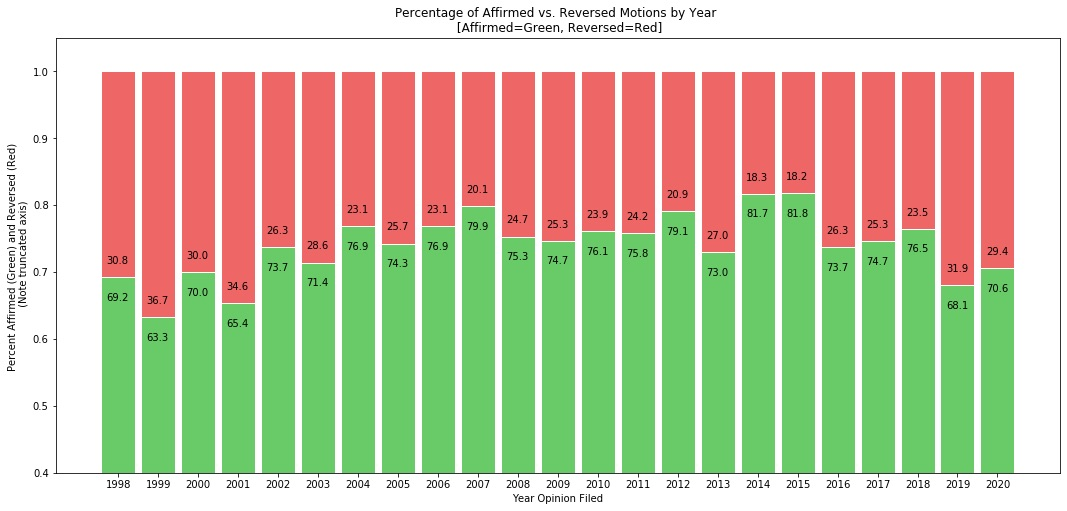
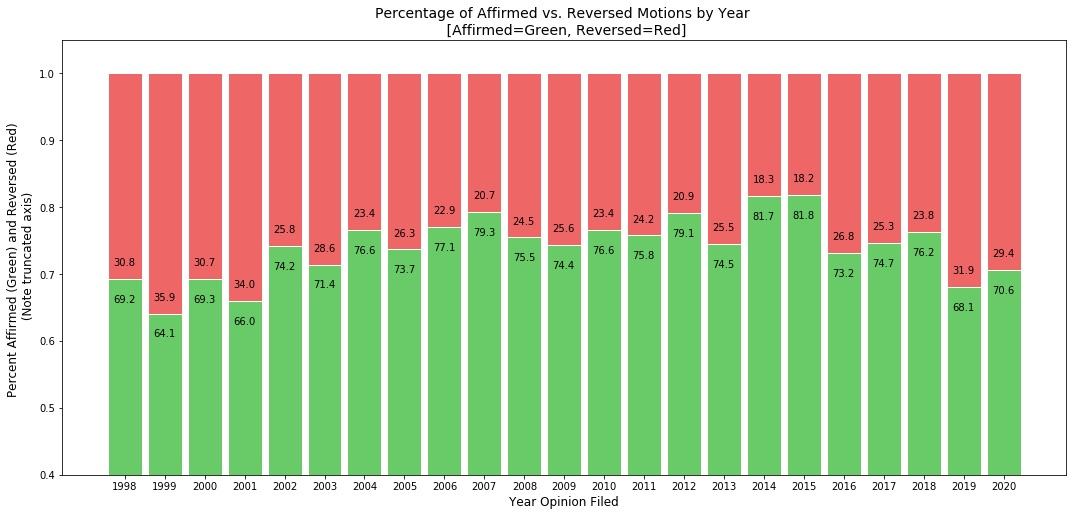
updates

diff --git a/README.md b/README.md
@@ -12,7 +12,7 @@ This README follows the following format:
 
 ### Repo Contents
 <ul>
-    <li> README.md: Project description, processes, and outcome
+    <li> README.md: Background, Process, and Outcome
     <li> Notebooks:
     <ul>
         <li> NC_COA_Scraper.ipynb: Jupyter notebook which indexes and downloads the initial set of appellate opinions (NC COA, 1998-2020)
@@ -31,7 +31,7 @@ This README follows the following format:
     <li> requirements.txt: dependencies file required for Streamlit
 </ul>
 
-### Background
+## Background
 
 #### The Common Law and Appellate Court's Opinions
 
@@ -47,38 +47,80 @@ MSJs are significant because if a court granted an MSJ, that would typically end
 
 Like most components of legal representation, MSJs can be expensive, costing from a few thousand dollars in a lower-value case, to many multiples of this as the stakes go up. While attorneys' and law firms' judgment on meeting the legal standard is crucial and fact-dependent, their collective experience with a given judge or on a given issue can also be valuable; however, an objective prediction based upon thousands of cases will valuably assist stakeholders in performing an informed and accurate cost-benefit analysis. 
 
-### Process
+## Process (OSEMN)
 
-#### Presumptions/Considerations
+### __Obtain__: Understanding | Gathering Information | Sourcing Data
+
+#### Understanding Presumptions/Considerations
 
 This model returns a relative probability of success in the trial court, inferred from appellate opinions (North Carolina does not provide access to trial court rulings, which actually lack any insightful details anyway). This inference may be affected by such factors as the typical deference shown by courts of appeals; so, it should be clear that the model provides a __relative__ probability (as compared to the probability of an average judge/county/etc). Moreover, it presumes that __every__ granted MSJ is appealed (which is likely an overestimation), and that the legal bases for summary judgment (as set forth in N.C.G.S. s. 1A-1, Rule 56) are met, or are at least arguable.  
 
-#### Creating the Data Set
+#### Sourcing the Data
 
-Opinions are stored in individual PDF files on the North Carolina Court of Appeals' web site. Beautiful Soup was used to generate a list of web addresses, which were then gathered via requests. PDFs were imported, converted to strings using the PDFMiner library, combined into an initial Pandas DataFrame, and then filtered to only those opinions containing the phrase "summary judgment". The dataset was further reduced to minimize or eliminate other complicating factors. 
+```Notebook: NC_COA_Scraper.ipynb```: Initial data sourcing started with locating and obtaining the opnions. Opinions are stored in individual PDF files on the North Carolina Court of Appeals' web site. Beautiful Soup was used to generate a list of web addresses of the individual PDFs using Beautiful Soup. Then, using Requests and the help of some proxy servers, I scraped each of the 28,931 PDFs. 
 
-Labels were extracted using regular expressions with decreasing levels of confidence. Then, feature sets were created, including the trial judge, case type, and county. Some of these were simple, while others required more detailed extractions, such as the case-type extraction. This function was built using a keyword dictionary, with the most prominent case-type match resulting. The features were reassuring; for instance, the following chart illustrates that the proportion of decisions affirming/reversing summary judgment does **not** overtly follow any time-trends (suggesting the historical performance does not need to be adjusted):
+```Notebook: DF_Creation.ipynb```: using the PDFMiner library, I combined each of the appellate opinions into a single-column DataFrame. I wrote a function to convert the PDFs into strings; this took nearly 4.5 hours to convert nearly all of the scraped PDFs.  An error list was created from those PDFs which did not process correctly, and to avoid unnecessary effort, I reviewed those error-list PDFs to see if they contained the phrase, "summary judgment"; only ten did, so these were concatenated to the master DataFrame individually. 
 
-<img src="https://github.com/jnels13/NC_Litigation_Predictor/blob/main/images/motions_by_year.png">
+#### Scrubbing the Data
 
-On other hand, but equally re-affirming, the case-type predictor shows different relative degrees of probablity of being affirmed, as shown below:
+With the initial DataFrame formed, I performed some further preprocessing before it was ready for label and feature extraction.  Overall, the dataframe was very clean, though some obvious cleaning was needed. First, I filtered it down to only those opinions including the term "summary judgment," as to not include any opinions irrelevant to the model (only a relative few cases discuss summary judgment motions).  Then, I removed the PDF tags and made the entire DataFrame lowercase.  Other than the tags, the data was extremely clean.  Finally, I removed the duplicate rows, resulting in 3,922 potentially relevant texts, which were now ready for label and feature extraction, though further scrubbing was performed along the way.
 
-<img align="center" src="https://github.com/jnels13/NC_Litigation_Predictor/blob/main/images/motions_by_case_type.png">
+```Notebook: Feature and Label Creation.ipynb```: The ultimate goal of this step was to extract labels ("affirmed" or "reversed"), as well as enough relevant and distinct features that would be helpful to as many new cases as possible.  Through this process, it became clear that further "clean-up" of the dataset was needed, including removing page numbers, cropping dissents from the end of some opinions, reviewing supreme court cases, and fixing potential issues like Irish names (i.e., "O'Connor" reading as two different words).  
+
+Issues created by page numbers and Irish names are self-explanatory.  Dissents had to be removed because they would confuse the model. A dissent is when one of the three appellate judges doesn't agree with the other two; they are then free to write their reasoning in dissenting from the majority, which is then appended to the end of the opinion.  It may be considered by the Supreme Court if the case reviewed again.  For purposes of the model, however, they confuse the issues and inhibit the ability to accurately extract labels and features.  Accordingly, they were cropped off using a regex filter.  Similarly, the North Carolina Supreme Court may (or may not) elect to review an appellate court decision and then write its own opinion.  The questions are slightly different, and the fact that they're reviewing a review would confuse the models. They're also exceedingly rare.  Accordingly, the Supreme Court decisions were dropped. 
+
+**Label Extraction:** After creating some initial features (including the year filed), just as a test run, I started to extract the labels.  To accomplish this, I created a function consisting of a series of nested try/except regex patterns, in decreasing order of reliability.  The function returned a series of labels, not all of which were helpful.  For instance, if the court dismissed an appeal, this was neither an "affirmed" or "denied." Opinions which were not easily categorized into "affirmed" or "denied" were dropped, leaving 2,817 opinions (this constituted the single largest filter of the initial batch of "summary judgment" opinions which were dropped. 
+
+**Feature Extraction:** Features were extracted in roughly the same way.  I wrote functions to extract two more feature sets (trial judge and county) using regex.  Once again, the patterns were organized in decreasing levels of reliability, such that easily extracted features were obtained through the first or second "try" statement.  After running each function, I went back over several iterations to either tweak the initial regex pattern or add another layer in the nested try/except statements to address things like judge's suffixes (i.e, joe nelson, iii or jr) to those using a first initial.  
+
+These nested try/except statements seemed perfectly functional and efficient (requiring fewer and fewer of the test cases not meeting the earlier "try" patterns to filter to the later patters).  I took some solace in one Stack Exchange reference to this style of code as a "common Python coding style," "clean and fast," as defined in the EAFP section of the Python glossary.  
+
+To extract the case-type feature, I took a slightly different route, using a dictionary of case types with their associated, unique keywords.  For instance, "marriage" or "alimony" would be keywords for "family law," while "intestate" and "probate" would be keywords for "estate law."  Words like "will" were not used, even if strongly associated with estate law, since it would likely appear in different contexts.  Next, I wrote a function that counted the occurrences of keywords and scored them for case_type, returning the most likely case type.  The function also produces a confidence score; the potential for using embeddings to categorize future cases is exciting, though it would require labeled data, which this dictionary and confidence score provides.  
+
+This function and accompanying dictionary was improved over many, many iterations, including the addition of an "other" case type, to avoid the function defaulting to the first-in-line.  To be sure, there may be some case types that are more condensed, and the dictionary can always be expanded and adjusted, but the ultimate result was pretty solid. 
+
+Another problem arose during the feature extraction, which I hinted at above: There were some cases where summary judgment is denied that are allowed to be appealed.  The legal jargon for this is when denial of the motion affects a "substantial right."  In such cases, "reversed" and "affirmed" would mean the opposite of a traditional case (where "affirmed" equated to summary judgment being granted in the trial court, it would now mean summary judgment had been denied).  I wrote a function to filter these "substantial right" cases out, initially with the intent of "flipping" their labels. However, they were not many and the issues within these cases were convoluted, such that the process was better served by simply dropping those rows. 
+
+### __Explore__: Reviewing the Dataset 
+
+With a clean, labeled dataset, I was now able to perform some EDA.  The features were reassuring; for instance, when reviewing the proportion of affirmed to reversed cases over time, there was no obvious time-related pattern. The following chart illustrates that the proportion of decisions affirming/reversing summary judgment does **not** overtly follow any time-trends:
+
+<img src="https://github.com/jnels13/NC_Litigation_Predictor/blob/main/images/motions_by_year.jpg">
+
+When looking at chances of being affirmed by case type, there appeared to be some clear differences between the relative degrees of probablity of being affirmed, as shown below:
+
+<img align="center" src="https://github.com/jnels13/NC_Litigation_Predictor/blob/main/images/motions_by_case_type.jpg">
 
 Similarly, the trial judges also have varying degrees of likelihood of being affirmed or reversed. The following illustrates the top fifteen judges (based upon the number of their cases involving summary judgment motions), ranked by their percentage of cases being affirmed.  (_This is a retrospective review; Judge Spainhour -- who granted one of my summary judgment motions -- passed away in 2020, and Judge Eagles was appointed as a federal district court judge in 2010, while this model only involves state-court cases._)  
 
-<img align="center" src="https://github.com/jnels13/NC_Litigation_Predictor/blob/main/images/top_ten_judges.png">
+<img align="center" src="https://github.com/jnels13/NC_Litigation_Predictor/blob/main/images/top_ten_judges.jpg?raw=true">
 
-### Modeling + Results
+### __Model__: Creating and Revising Predictive Models 
 
-Experiments were run with several different classifiers, starting with logistic regression and then adding a simple neural network, XG Boost, and random forest models. Ultimately, a stacking classifier was also used, combining all of these models together. The data was imbalanced between the two classes (roughly 3:1), so the data were run through the models both as unbalanced and balanced using Smote-NC. When running the neural network on balanced data, the model returned similar loss curves between training and validation sets (4 layers, 3 with dropouts); however, the loss curves kept diverging with the unbalanced data.  This was a blessing in disguise; when the neural network was left out of the stacking classifier and ran with the unbalanced data, the stacking classifier (running XG Boost and random forest, with logistic regression as the final estimator) demonstrated the best performance so far (accuracy of 0.76 and f1 score of 0.86).  
+#### One-hot encoding and class balancing
 
-In the final Streamlit app, when a judge, county, and case-type are selected, the model will provide and plot the relative likelihood of a summary judgment motion being affirmed, as illustrated below:
+I started the modeling process first by one hot encoding the categorical variables (which was all of the variables).  This resulted in a matrix of 2665 rows and 605 columns.  Class imbalance presented some issue, with the affirmed cases representing 74.4% of the corpus.  To account for this, I ran the models both on the unbalanced data set and on a balanced set using Smote-NC, a class-balancing algorithm better suited to categorical data than the original Smote algorithm. Ultimately, the models performed better using the unbalanced data, and the imbalance was not too significant; accordingly, the numbers below represent the runs on imbalanced data.
+
+#### Modeling 
+
+Then, I used scikit-learn's dummy classifier to produce a baseline, which returned an accuracy of 0.49 and an F1 score of 0.59 for the affirmed class (designated class 1 in the model) on the unbalanced data. I attempted to run several different models, including logistic regression, a simple neural network, random-forest classifier and the XG Boost classifier. each using a grid search or randomized search to tune the hyperparameters.  Each of these performed okay, as indicated below:
+
+<img align="center" src="https://github.com/jnels13/NC_Litigation_Predictor/blob/main/images/acc_f1_scores.png">
+
+I then combined these into a stacking classifier, using logistic regression as the final estimator.  The neural network became difficult as I experimented between the balanced and unbalanced data.  When using the balanced data, I moved from three to four layers, each of the first three followed by a dropout layer, and the loss curves followed each other nicely:
+
+<img align="center" src="https://github.com/jnels13/NC_Litigation_Predictor/blob/main/images/nn_loss.jpg">
+
+However, when returning to the unbalanced data, despite many attempts at tuning the model, the loss curves would diverge significantly after only a few epochs.  I eventually tried running the stacking classifier without the neural network, and results improved from when it was included, with a final accuracy of 0.76 and an f-1 score of 0.86. 
+
+### __iNterpret__: What Does the Model Show? 
+
+In the <a href="https://share.streamlit.io/jnels13/nc_litigation_predictor/main/litigation_predictor_streamlit.py">final Streamlit app</a>, when a judge, county, and case-type are selected, the model will provide and plot the relative likelihood of a summary judgment motion being affirmed , as illustrated below:  
 <p  align="center" >
 <img src="https://github.com/jnels13/NC_Litigation_Predictor/blob/main/images/Streamlit_Selection.jpg?raw=true" width=400>
 <img src="https://github.com/jnels13/NC_Litigation_Predictor/blob/main/images/Streamlit_Predict.jpg?raw=true" width=400>
 </p>
-The probability of all cases to be affirmed is rather high -- generally in the 70%'s -- which can be misleading. Accordingly, I stress the intent of the model as demonstrating where a given case lies in relation to the mean likelihood of being affirmed.
+The probability of all cases to be affirmed is rather high -- generally in the 70%'s -- which can be misleading. Accordingly, I stress the intent of the model as demonstrating where a given case lies *in relation to* the mean likelihood of being affirmed.
 
 ### Upcoming Work
 
